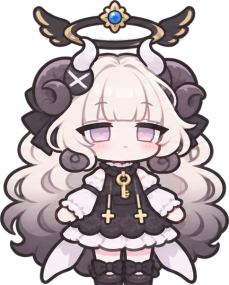
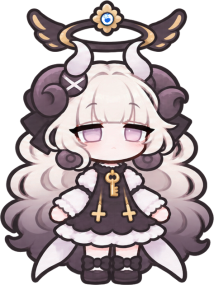
다래 기본 서 있기를 일어나기 끝 장으로
Claude-Session: https://claude.ai/code/session_01SbFuD9LBQUw7gFTz2Mmv9g

diff --git a/scripts/build_dare_frames.py b/scripts/build_dare_frames.py
@@ -190,7 +190,11 @@ def build() -> dict[str, list[np.ndarray]]:
     from scripts.color_parts import PARTS
     from scripts.sheet_colors import harmonize
     groups = {("talk_m1", 0): ("talk_base", 0), ("talk_m2", 0): ("talk_base", 0)}
-    return harmonize(out, out["stand"][0], PARTS["다래"], groups)
+    # 색 맞추기 기준은 예전 정면 서 있기 그대로(다른 그림 색이 바뀌지 않게) — 그 뒤 서 있기를 일어나기 끝 장으로(사용자 11-25
+    # '착지하고 서 있을 때가 더 이쁨' — 일어나기 v2 4번째 칸, 일어나기 끝 = 서 있기라 이어짐도 매끄러움)
+    out = harmonize(out, out["stand"][0], PARTS["다래"], groups)
+    out["stand"] = [out["getup"][-1].copy()]
+    return out
 
 
 EXPECTED = {"stand": 1, "walk": 6, "surprise": 2, "pet": 6, "drag": 4, "land": 3, "getup": 3, "crouch": 3,

diff --git a/tests/test_character.py b/tests/test_character.py
@@ -2577,3 +2577,9 @@ def test_silhouette_card_preview_uses_its_own_pack_not_selected_one(monkeypatch)
         assert notifier.greeting_path(pack) == sounds / pack / notifier.SAMPLE_FILE
     assert notifier.greeting_path("") == sounds / notifier.SAMPLE_FILE
     assert notifier.greeting_path("없는 팩") == sounds / notifier.SAMPLE_FILE
+
+
+def test_dare_stand_is_getup_end_picture():
+    """다래 기본 서 있기 = 일어나기 v2 끝 장(사용자 11-25 '착지하고 서 있을 때가 더 이쁨') — 키 285 그대로."""
+    assert (ASSETS / "다래" / "stand_0.png").read_bytes() == (ASSETS / "다래" / "getup_2.png").read_bytes()
+    assert _img_of(ASSETS / "다래" / "stand_0.png").shape[0] == 285

diff --git a/docs/status.md b/docs/status.md
@@ -5173,3 +5173,4 @@
 - **??? 카드 미리듣기 목소리(DEV 11-25, QA — 사용자 '자연스러운 남성·여성이 화난 여성 투아림으로 나와')**: `notifier.greeting_path` 인사 없을 때 폴백을 지금 고른 팩(sound_path) → **그 카드 팩의** 투아림, 없으면 기본(flat). 알림 sound_path는 그대로. 테스트 1개. 노트 v0.57.0 한 줄.
 - **다래 착지 v3 요청문(기획 11-25, QA 요청 — 사용자 '떨어트리고 나면 갑자기 좌우로 커져')**: 원인 land_1·2 머리카락이 바닥 양옆으로 퍼져 폭 256(서 있기 229·떨어짐 206). 가이드 `다래/SD/가이드_착지_폭.png`(기준 좌우 끝 세로 점선 추가) + 요청문 `호감도_모션_GPT복사용.md` 끝(새 대화). 일어나기는 폭 214~220이라 그대로. 다음 버전.
 - **다래 기본 서 있기 = getup_2(기획 11-25, 사용자 '착지하고 서 있을 때가 더 이쁨 — 그걸 기준으로 기본 포즈 변경')**: 키·발 같음, 머리 1.03배, 폭 214. 착지 v3 가이드(`가이드_착지_폭.png`)와 다래 새 옷 전체 프레임 시트를 새 서 있기로 다시 만듦. DEV 전송(stand_0 교체, 다음 버전).
+- **다래 기본 서 있기 교체(DEV 11-25, 기획 b8b66c73 — 사용자 '착지하고 서 있을 때가 더 이쁨')**: `build_dare_frames` — 색 맞추기는 예전 정면 서 있기 기준 그대로(다른 그림 안 바뀜), 그 뒤 stand = getup 끝 장(일어나기 v2 4번째 칸). 바뀐 파일 stand_0.png 하나(= getup_2, 키 285·폭 214). 다래 크기 테스트 모두 통과, 테스트 1개 추가. 노트 v0.57.1·검사 목록 0.57.1. **0.57.0 게시 보류 중이라 로컬 커밋 — 게시 뒤 푸시**.

diff --git a/src/mabinogi_addon/assets/release_notes.md b/src/mabinogi_addon/assets/release_notes.md
@@ -1,3 +1,8 @@
+## v0.57.1
+
+조용히 다듬은 것들
+- 다래 기본 자세가 조금 더 단정해졌어요.
+
 ## v0.57.0
 
 **이안 목소리가 새로 바뀌었어요.** 이안을 쓰고 있었다면 따로 고를 필요 없이 새 목소리로 이어져요. 호감도와 옷도 그대로예요.
